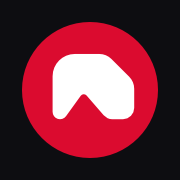
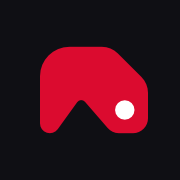
feat: simpler brand identity (#53)
* chore(deps): bump dependencies

* feat: simpler brand identity

diff --git a/src/styles/_sections.scss b/src/styles/_sections.scss
@@ -7,6 +7,10 @@
 		--logo-size: calc(42px + 0.5vw);
 		inline-size: var(--logo-size);
 		min-inline-size: var(--logo-size);
+		
+		img {
+			border-radius: 0;
+		}
 	}
 	
 	.navbar {
